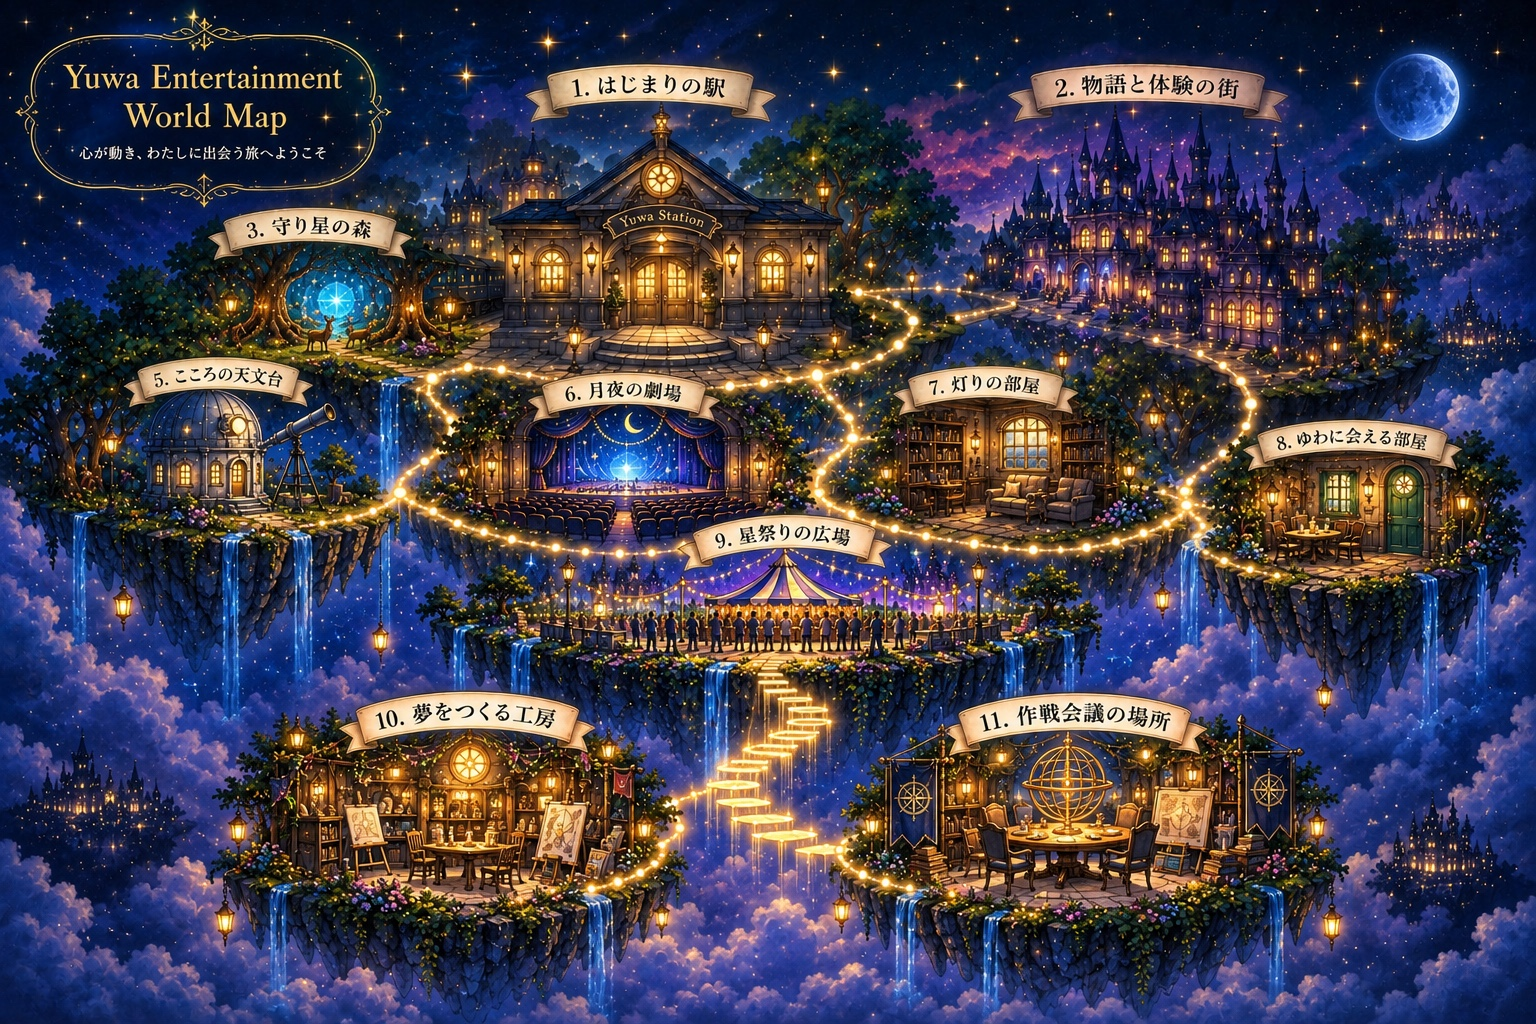
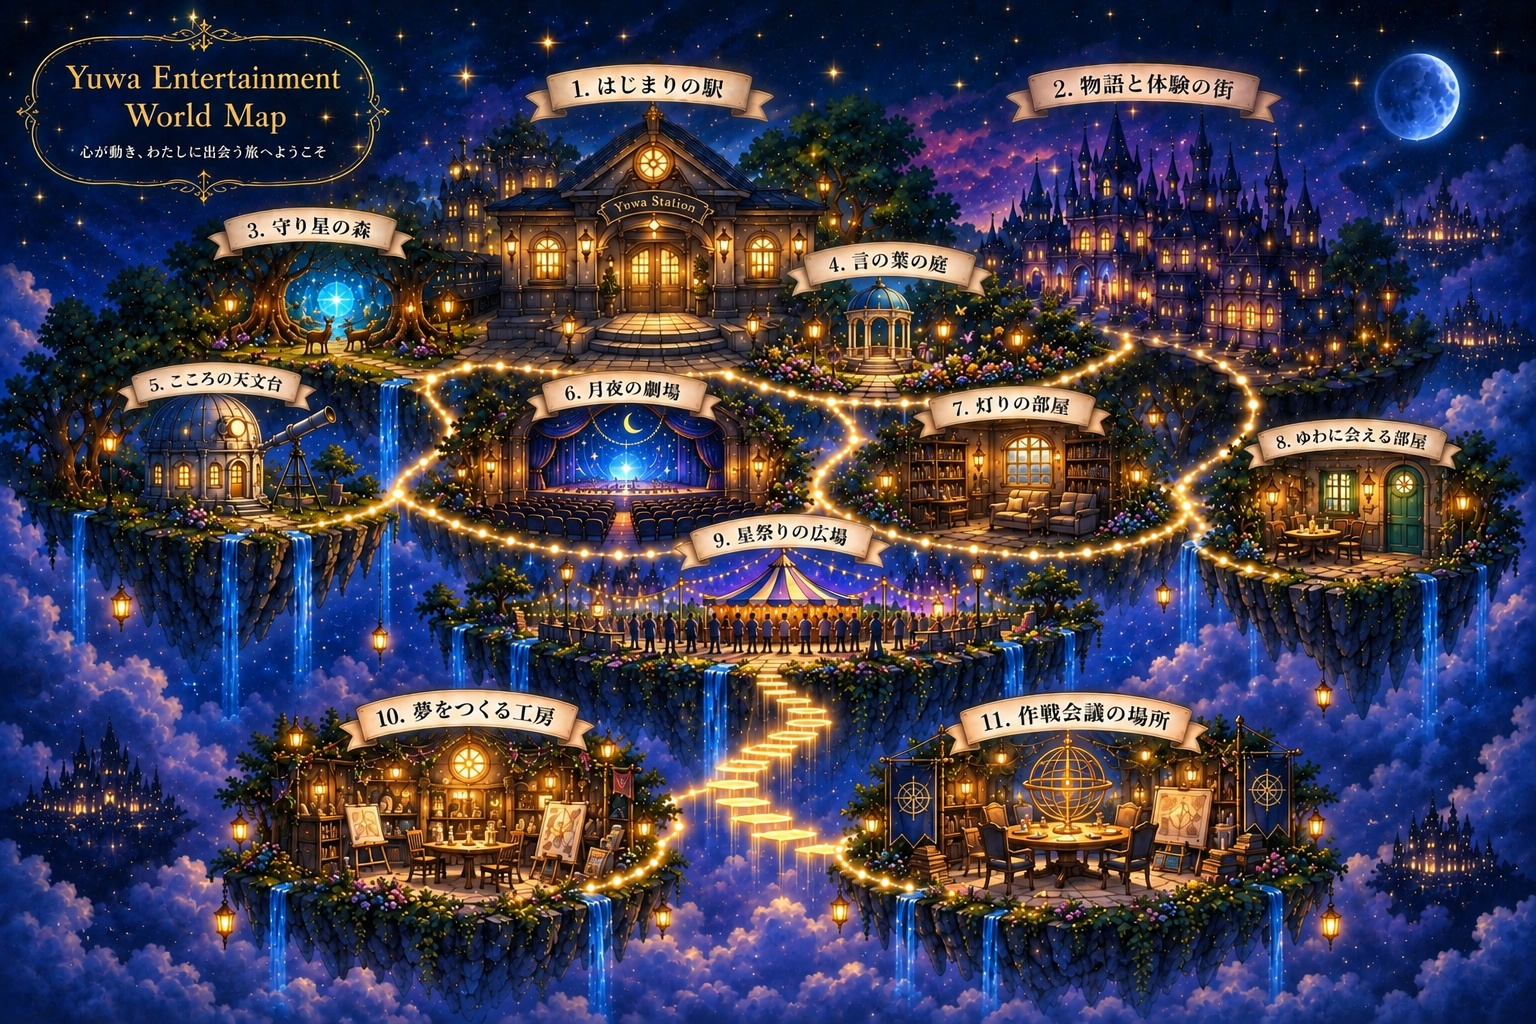
Add files via upload

diff --git a/yuwa-world.html b/yuwa-world.html
@@ -619,52 +619,52 @@ const SHOW_END = "さあ、今日はどこへ行きましょう。";
 const LINE_URL = "https://lin.ee/w5BdMf0";
 
 const AREAS = [
-  { no:"01", name:"はじまりの駅",   x:43, y:27, open:true,
+  { no:"01", name:"はじまりの駅",   x:41, y:14, open:true,
     lead:"すべての旅のはじまりの場所。ここから、あなたの物語がはじまります。",
     items:["この世界のこと","ここでできること","旅人証を受け取る"],
     intro:true,
     cta:"", url:"" },
 
-  { no:"02", name:"物語と体験の街", x:77, y:22, open:false,
+  { no:"02", name:"物語と体験の街", x:68, y:16, open:false,
     lead:"毎月のメインEntertainmentが楽しめる街。",
     items:["物語・映像・音楽・イラスト","選択・謎解き・ゲーム","心理学・脳科学のエッセンス"] },
 
-  { no:"03", name:"守り星の森",     x:16, y:46, open:false,
+  { no:"03", name:"守り星の森",     x:20, y:27, open:false,
     lead:"守護神たちと出会う森。選択によって出会う存在が変わります。",
     items:["ナイト / 白狐 / 白龍","花 / 猫 / 案内人","星の言の葉を受け取る"] },
 
-  { no:"04", name:"言の葉の庭",     x:65, y:48, open:true,
+  { no:"04", name:"言の葉の庭",     x:60, y:31, open:true,
     lead:"あなたの心に咲く言葉を集める庭。集めた言葉は、あなただけの宝物になります。",
     items:["言の葉パスポート","今月のカード","過去のカード","年間コレクション"],
     cta:"庭に入る",
     links:[{t:"言の葉パスポート",u:"https://yuwa-bloom-realm.github.io/kotonoha-passport/kotonoha-passport.html"},
            {t:"12か月のカード一覧",u:""}] },
 
-  { no:"05", name:"こころの天文台", x:13, y:72, open:true,
+  { no:"05", name:"こころの天文台", x:12, y:47, open:true,
     lead:"自分の軌跡と未来を見つめる場所。受け取った言葉が、星座になって空に浮かびます。",
     items:["こころ星座プラネタリウム","過去に受け取った言葉","自分の選択と記録","次に進む一歩を見つける"],
     cta:"天文台へ入る",
     links:[{t:"こころ星座プラネタリウム",u:"https://yuwa-bloom-realm.github.io/yuwa-planetarium/"}] },
 
-  { no:"06", name:"月夜の劇場",     x:42, y:72, open:true,
+  { no:"06", name:"月夜の劇場",     x:41, y:45, open:true,
     lead:"ライブや上映会が行われる場所。今夜は、どの物語に会いにいきますか。",
     items:["月1回のライブ","プレミア上映","季節の特別公演","朗読・音楽・映像"],
     cta:"劇場に入る",
     links:[{t:"影の魔王",u:"https://yuwa-bloom-realm.github.io/kage-no-maou/kage_no_maou_game.html"},
            {t:"月夜の謎解き喫茶",u:""},{t:"今月の朗読",u:""}] },
 
-  { no:"07", name:"灯りの部屋",     x:64, y:72, open:true,
+  { no:"07", name:"灯りの部屋",     x:64, y:48, open:true,
     lead:"心を休めて、整える場所。",
     items:["短い音声","30秒リセット","眠る前の言葉","呼吸・瞑想"],
     cta:"部屋に入る",
     links:[{t:"30秒リセット",u:"https://yuwa-bloom-realm.github.io/30sec-reset/reset30.html?from=world"},
            {t:"短い音声",u:""},{t:"眠る前の言葉",u:""},{t:"呼吸・瞑想",u:""}] },
 
-  { no:"08", name:"ゆわに会える部屋", x:89, y:72, open:false,
+  { no:"08", name:"ゆわに会える部屋", x:87, y:47, open:false,
     lead:"もっと深く話したい人のための場所。",
     items:["個別カウンセリング","対話セッション","少人数の特別体験"] },
 
-  { no:"09", name:"星祭りの広場",   x:48, y:90, open:false,
+  { no:"09", name:"星祭りの広場",   x:43, y:60, open:false,
     lead:"みんなで集う特別な場所。",
     items:["リアルイベント","YBCA Bloom Festival","展示・音楽・朗読"] },
 
